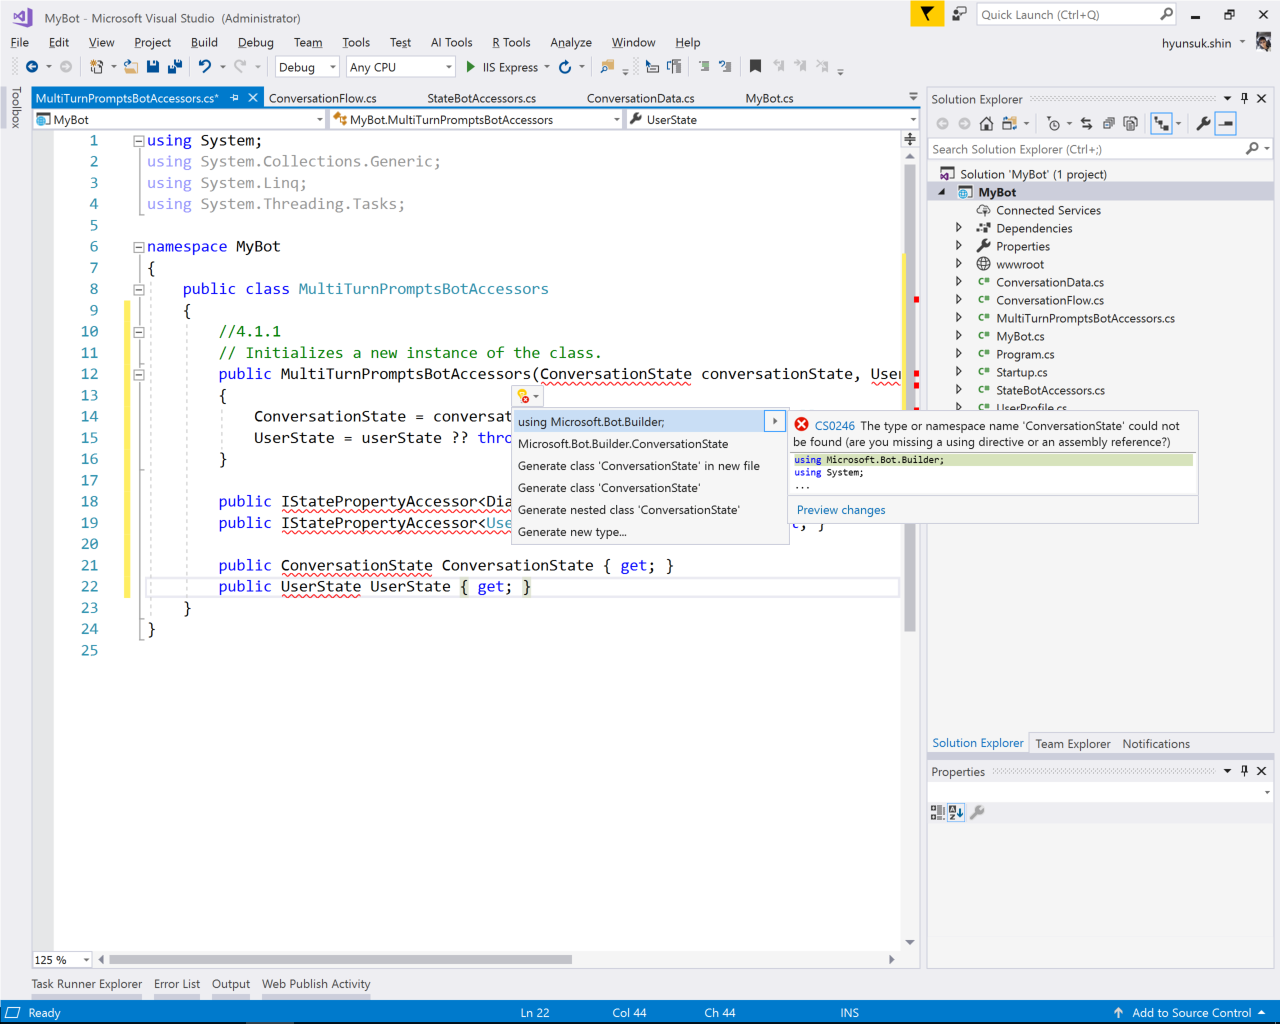
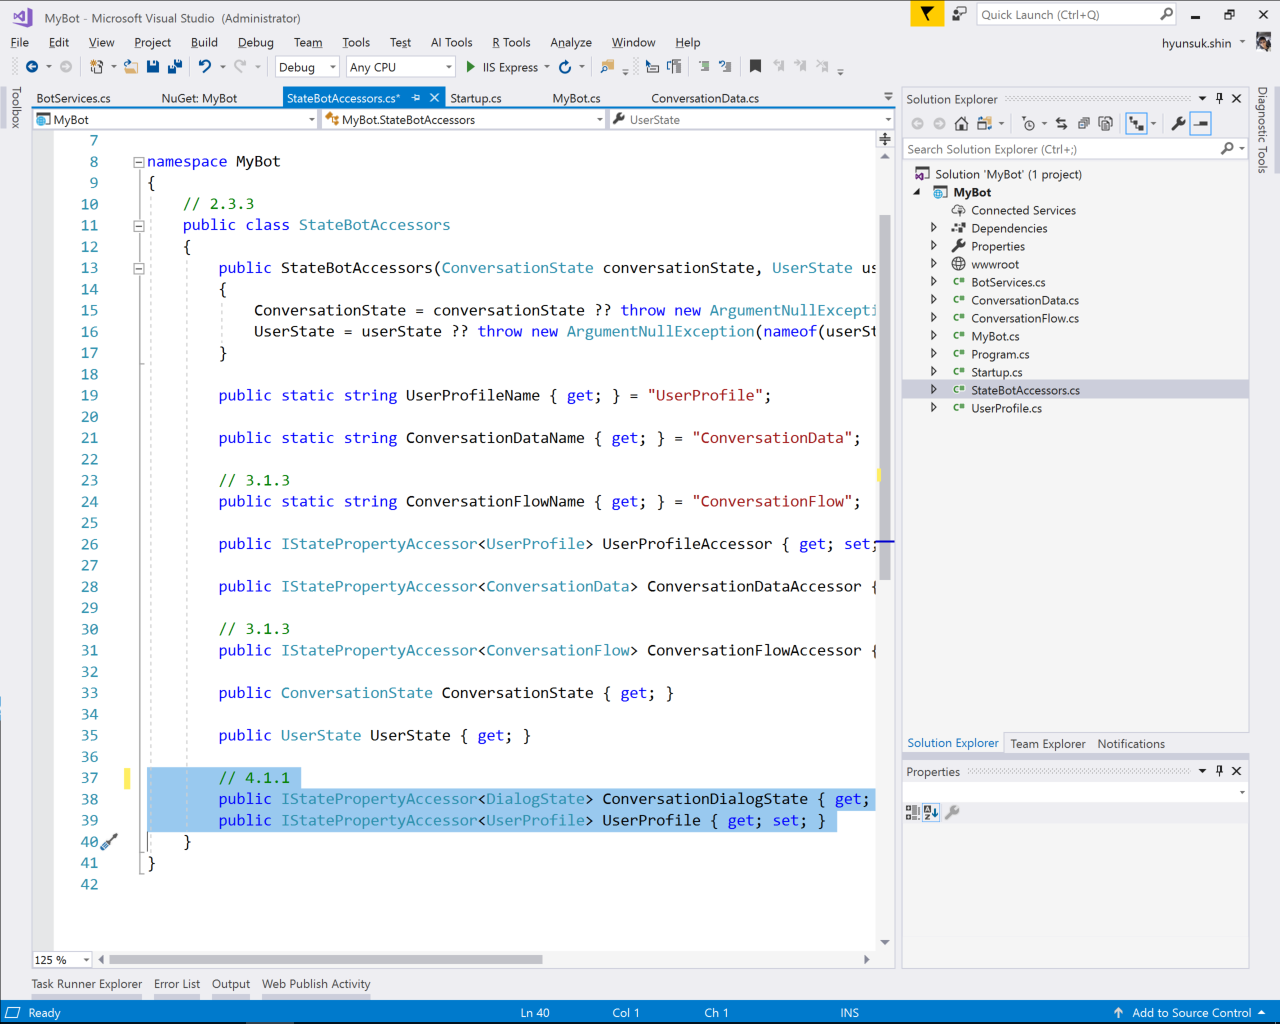
update images and contents

diff --git a/04.SequentialFlow.md b/04.SequentialFlow.md
@@ -1,14 +1,22 @@
-# 4 Sequential Flow
+# 4. Sequential Flow
 
-Create __MultiTurnPromptsBotAccessors__ in the project
+## 4.1 Configure yout bot
+
+### 4.1.1 Add new properties
+
+Create following propertyAccessors in __StateBotAccessors__ calss in the project
 
 ```C#
-// 4.1
+// 4.1.1
 public IStatePropertyAccessor<DialogState> ConversationDialogState { get; set; }
 public IStatePropertyAccessor<UserProfile> UserProfile { get; set; }
 ```
 
-Co to __Statup__ and update __ConfigureServices__
+![4.1.1](./images/4.1.1.png)
+
+### 4.1.2
+
+Oepn to __Statup__.cs and update __ConfigureServices__ method
 
 ```C#
 public void ConfigureServices(IServiceCollection services)
@@ -40,7 +48,7 @@ public void ConfigureServices(IServiceCollection services)
 
         // Create the custom state accessor.
         // State accessors enable other components to read and write individual properties of state.
-        var accessors = new MultiTurnPromptsBotAccessors(conversationState, userState)
+        var accessors = new StateBotAccessors(conversationState, userState)
         {
             ConversationDialogState = conversationState.CreateProperty<DialogState>("DialogState"),
             UserProfile = userState.CreateProperty<UserProfile>("UserProfile"),
@@ -51,7 +59,9 @@ public void ConfigureServices(IServiceCollection services)
 }
 ```
 
-4.1.7
+![4.1.2](./images/4.1.2.png)
+
+### 4.1.3
 
 ```C#
 public async Task OnTurnAsync(ITurnContext turnContext, CancellationToken cancellationToken = default(CancellationToken))
@@ -80,22 +90,33 @@ public async Task OnTurnAsync(ITurnContext turnContext, CancellationToken cancel
 }
 ```
 
-### 4.1.7
-Add ___dialogs__ in the bot class.
+### 4.1.4 Add Bot-Builder Dialogs package
+
+Add __Microsoft.Bot.Builder.Dialogs__ via NuGet Package manager
+
+![4.1.2](./images/4.1.2.png)
+
+### 4.1.5
+
+Add ___dialogs__ at the bot class in MyBot.cs file .
 
 ```C#
-// 4.1.
+// 4.1.5
 private DialogSet _dialogs;
 ```
 
+Also add following code
+
 ```C#
-public MultiTurnPromptsBot(MultiTurnPromptsBotAccessors accessors)
+public MyBot(StateBotAccessors accessors)
 {
     _accessors = accessors ?? throw new ArgumentNullException(nameof(accessors));
 
+    // 4.1.5
     // The DialogSet needs a DialogState accessor, it will call it when it has a turn context.
     _dialogs = new DialogSet(accessors.ConversationDialogState);
 
+    //4.1.5
     // This array defines how the Waterfall will execute.
     var waterfallSteps = new WaterfallStep[]
     {
@@ -106,6 +127,7 @@ public MultiTurnPromptsBot(MultiTurnPromptsBotAccessors accessors)
         SummaryStepAsync,
     };
 
+    //4.1.5
     // Add named dialogs to the DialogSet. These names are saved in the dialog state.
     _dialogs.Add(new WaterfallDialog("details", waterfallSteps));
     _dialogs.Add(new TextPrompt("name"));
@@ -114,7 +136,9 @@ public MultiTurnPromptsBot(MultiTurnPromptsBotAccessors accessors)
 }
 ```
 
-Update Bot logic
+![4.1.5.1](./images/4.1.5.1.png)
+
+### 4.1.6 Update Bot logics for each step
 
 ```C#
 private static async Task<DialogTurnResult> NameStepAsync(WaterfallStepContext stepContext, CancellationToken cancellationToken)
@@ -209,6 +233,9 @@ private async Task<DialogTurnResult> SummaryStepAsync(WaterfallStepContext stepC
     return await stepContext.EndDialogAsync(cancellationToken: cancellationToken);
 }
 ```
+
+### 4.2 Test
+
 
 ---
 
